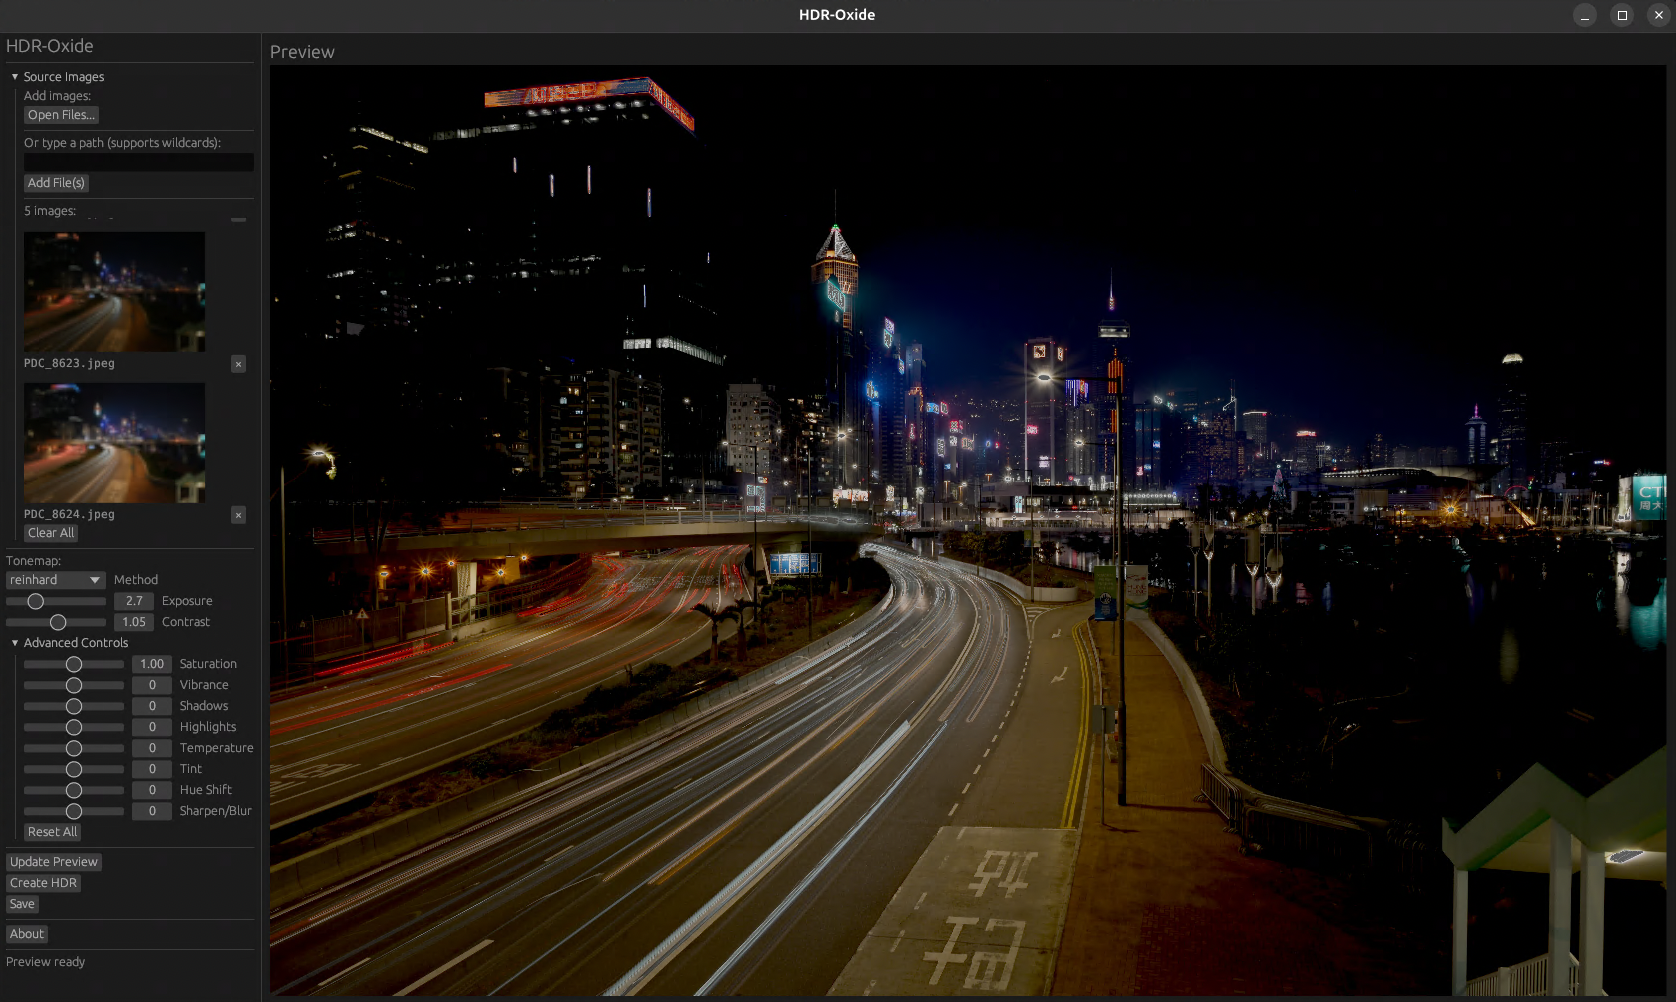
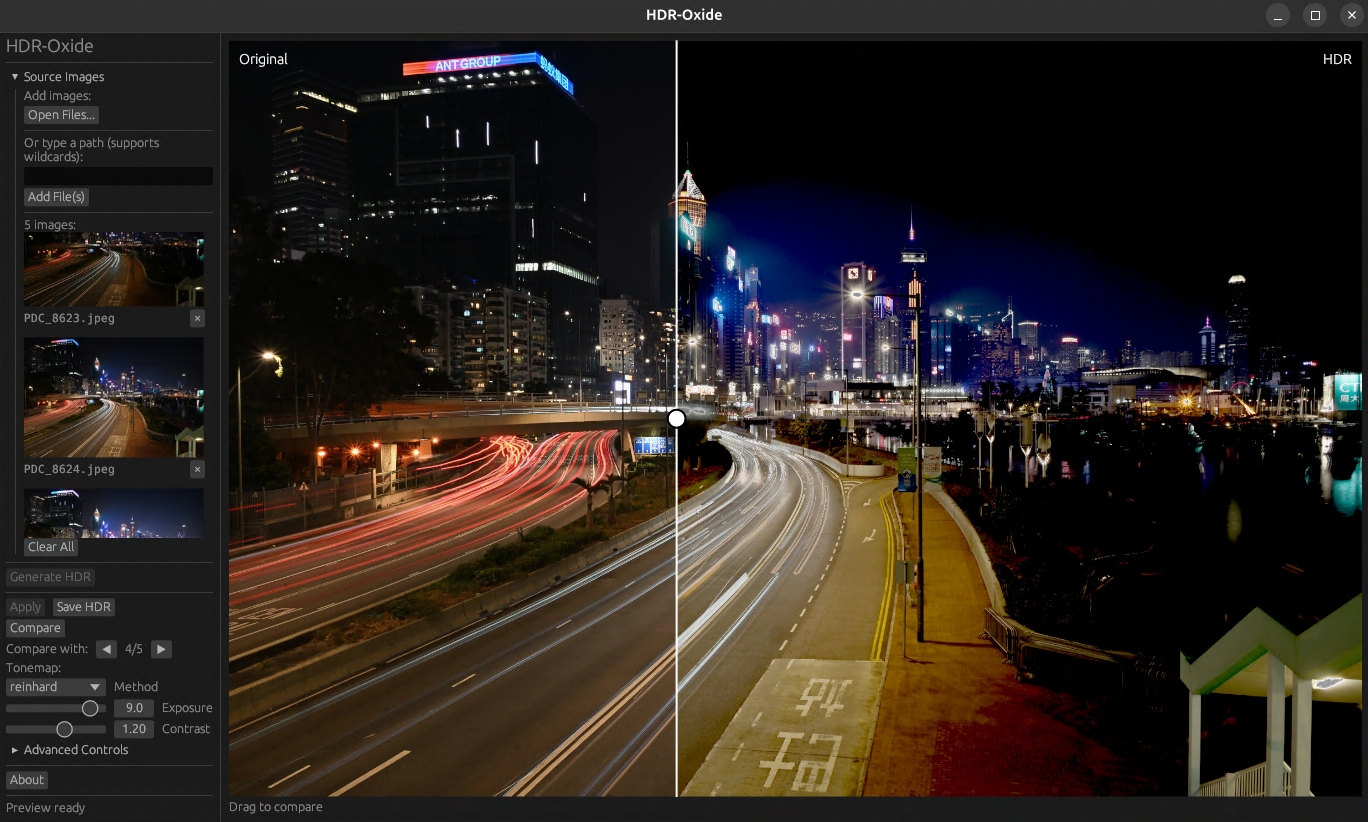
added AGENTS.md and updated application screenshot

diff --git a/AGENTS.md b/AGENTS.md
@@ -1,0 +1,272 @@
+# AGENTS.md - HDR-Oxide Project Guidelines
+
+## Project Overview
+
+HDR-Oxide is a Rust application for creating HDR images from exposure-bracketed photographs. It provides both a CLI and a GUI (egui) interface with tonemapping capabilities.
+
+## Build Commands
+
+```bash
+# Debug build
+cargo build
+
+# Release build (optimized)
+cargo build --release
+
+# Run GUI
+cargo run -- gui
+
+# Run CLI
+cargo run -- create -i img1.jpg -i img2.jpg -o output.png
+```
+
+## Test Commands
+
+```bash
+# Run all tests
+cargo test
+
+# Run a single test
+cargo test test_merge_single_image
+
+# Run tests in a specific file
+cargo test --test merge_tests
+
+# Run tests matching a pattern
+cargo test tonemap
+
+# Run tests with output
+cargo test -- --nocapture
+```
+
+## Lint Commands
+
+```bash
+# Run clippy (must pass with no warnings)
+cargo clippy
+
+# Run clippy with all warnings
+cargo clippy -- -W clippy::all
+
+# Format check
+cargo fmt -- --check
+
+# Auto-format
+cargo fmt
+```
+
+## Code Style Guidelines
+
+### Imports
+
+```rust
+// Order: std -> external crates -> internal modules
+use std::path::PathBuf;
+use std::sync::Arc;
+
+use anyhow::Result;
+use image::{DynamicImage, Rgba32FImage};
+use rayon::prelude::*;
+
+use crate::error::HdrError;
+use crate::image::merge::HdrImage;
+```
+
+### Formatting
+
+- Use `cargo fmt` before committing
+- Max line length: 100 characters (default rustfmt)
+- Indent: 4 spaces (no tabs)
+- Match arm bodies align when short
+
+### Types
+
+- Use `f32` for image processing values (HDR data, color channels)
+- Use `u32` for image dimensions, `u64` for dimension multiplication to avoid overflow
+- Use `Arc<T>` for shared image data across threads
+- Use `PathBuf` for file paths
+
+### Naming Conventions
+
+- **Modules**: `snake_case` (`merge.rs`, `tonemap.rs`)
+- **Types/Structs**: `PascalCase` (`HdrImage`, `TonemapSettings`, `SourceImage`)
+- **Functions**: `snake_case` (`merge_to_hdr`, `tonemap_hdr`)
+- **Constants**: `SCREAMING_SNAKE_CASE` (`LUMINANCE_R`, `FILMIC_A`)
+- **Local variables**: `snake_case`
+
+### Error Handling
+
+- Use `Result<T, HdrError>` for fallible operations
+- Use `anyhow::Result` for CLI commands
+- Always propagate errors with `?`, never panic in library code
+- GUI uses `Result<T, String>` for thread communication
+
+```rust
+// Library code
+pub fn merge_to_hdr(images: &[SourceImage]) -> Result<HdrImage, HdrError> {
+    if images.is_empty() {
+        return Err(HdrError::Merge("No images to merge".to_string()));
+    }
+    // ...
+}
+
+// CLI code
+pub fn create_hdr(args: CreateArgs) -> Result<()> {
+    let images = loader::load_source_images(&args.input, exposures, ev_offsets)?;
+    // ...
+}
+```
+
+### Threading and Concurrency
+
+- Use `rayon` for parallel pixel processing: `(0..height).into_par_iter()`
+- Use `std::sync::mpsc` for GUI thread communication
+- Use `Arc<AtomicBool>` for cancellation tokens
+- Use `Arc<T>` for shared image data
+
+```rust
+// Parallel processing pattern
+let results: Vec<_> = (0..height)
+    .into_par_iter()
+    .flat_map(|y| (0..width).into_par_iter().map(move |x| (x, y)))
+    .map(|(x, y)| {
+        // process pixel
+    })
+    .collect();
+```
+
+### Progress Reporting
+
+- Use callback pattern: `Fn(usize) + Send + Sync`
+- Report progress at intervals (e.g., every 1% of pixels)
+- Use `saturating_sub` for atomic counter differences
+
+```rust
+pub fn merge_to_hdr_parallel_with_progress<F>(
+    images: &[SourceImage],
+    progress_callback: F,
+) -> Result<HdrImage, HdrError>
+where
+    F: Fn(usize) + Send + Sync,
+{
+    // ... report progress periodically
+    progress_callback(count);
+}
+```
+
+### Code Comments
+
+- **Do NOT add comments** unless explicitly requested
+- Named constants should be self-documenting
+- Use descriptive function/variable names instead of comments
+
+### Magic Numbers
+
+- Define as named constants at module level
+
+```rust
+const LUMINANCE_R: f32 = 0.2126;
+const LUMINANCE_G: f32 = 0.7152;
+const LUMINANCE_B: f32 = 0.0722;
+const EPSILON: f32 = 1e-6;
+```
+
+### Float Comparisons
+
+- Never use `==` for float equality
+- Use epsilon comparison: `(a - b).abs() < EPSILON`
+
+```rust
+// Correct
+if delta < EPSILON { ... }
+if (max - r).abs() < EPSILON { ... }
+
+// Wrong
+if delta == 0.0 { ... }
+```
+
+### NaN and Infinity Handling
+
+- Always check for NaN after mathematical operations
+- Use `is_finite()` for validation
+- Provide fallback values for edge cases
+
+```rust
+fn apply_filmic_curve(x: f32) -> f32 {
+    let result = // ... complex calculation
+    if result.is_nan() {
+        0.0
+    } else {
+        result
+    }
+}
+```
+
+### Test Patterns
+
+- Tests go in `tests/` directory, not inline
+- Create helper functions for test data
+- Use `assert!((actual - expected).abs() < EPSILON)` for float comparisons
+
+```rust
+fn create_test_image(width: u32, height: u32, color: [u8; 3]) -> DynamicImage {
+    let mut img = RgbImage::new(width, height);
+    for y in 0..height {
+        for x in 0..width {
+            img.put_pixel(x, y, Rgb(color));
+        }
+    }
+    DynamicImage::ImageRgb8(img)
+}
+
+#[test]
+fn test_merge_single_image() {
+    let img = create_test_image(10, 10, [128, 128, 128]);
+    // ...
+}
+```
+
+## Key Dependencies
+
+- `image` - Image loading/saving, format handling
+- `rayon` - Parallel iteration
+- `eframe/egui` - GUI framework
+- `clap` - CLI argument parsing
+- `anyhow` - Error handling for CLI
+- `kamadak-exif` - EXIF metadata reading
+- `rfd` - File dialogs
+- `indicatif` - CLI progress bars
+
+## Architecture Notes
+
+- **src/lib.rs**: Module exports
+- **src/main.rs**: CLI entry point
+- **src/cli.rs**: CLI argument definitions
+- **src/gui.rs**: GUI application (HdrApp struct)
+- **src/error.rs**: Error types
+- **src/commands/mod.rs**: CLI command handlers
+- **src/image/**: Image processing modules
+  - **loader.rs**: Image loading, EXIF parsing
+  - **merge.rs**: HDR merging (Debevec weighting)
+  - **tonemap.rs**: Tone mapping (Reinhard, Filmic, Gamma)
+  - **alignment.rs**: Image alignment (optional, requires OpenCV)
+
+## Working Resolution Pattern
+
+The GUI uses a working resolution (max 2048px) for interactive operations:
+
+```rust
+const WORKING_MAX_DIMENSION: u32 = 2048;
+
+pub struct SourceImages {
+    pub full: Arc<DynamicImage>,      // Full resolution
+    pub working: Arc<DynamicImage>,   // Max 2048px
+    pub exposure_seconds: f32,
+}
+```
+
+## Git Workflow
+
+- Never commit without explicit user request
+- Never push to remote without explicit user request
+- Always run `cargo clippy` and `cargo test` after changes
